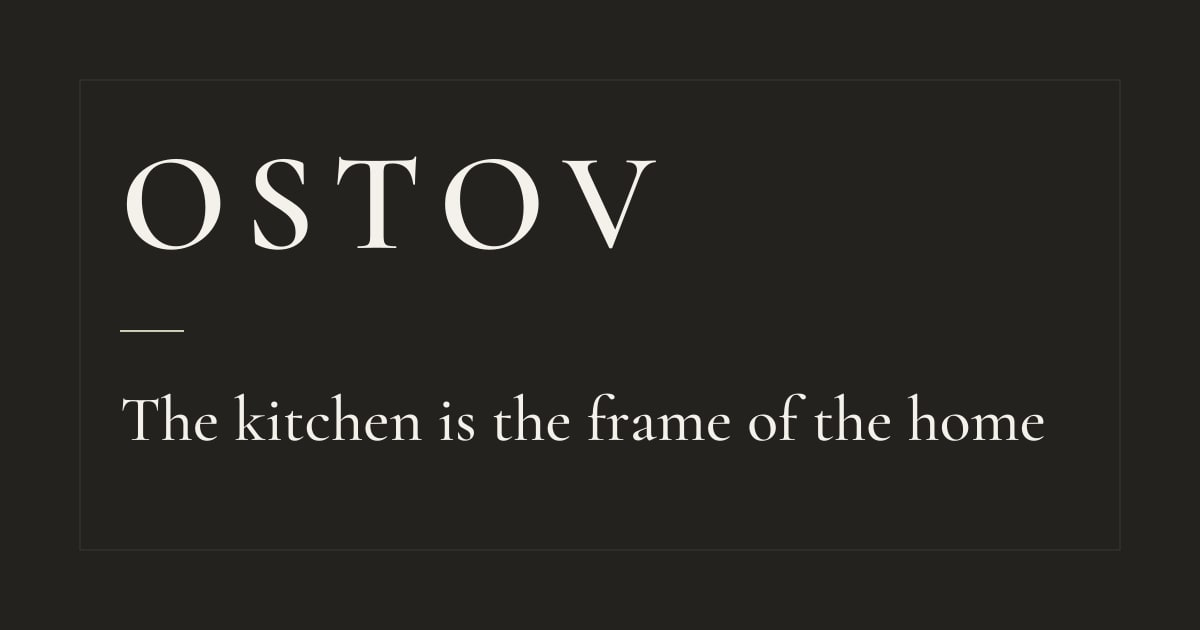
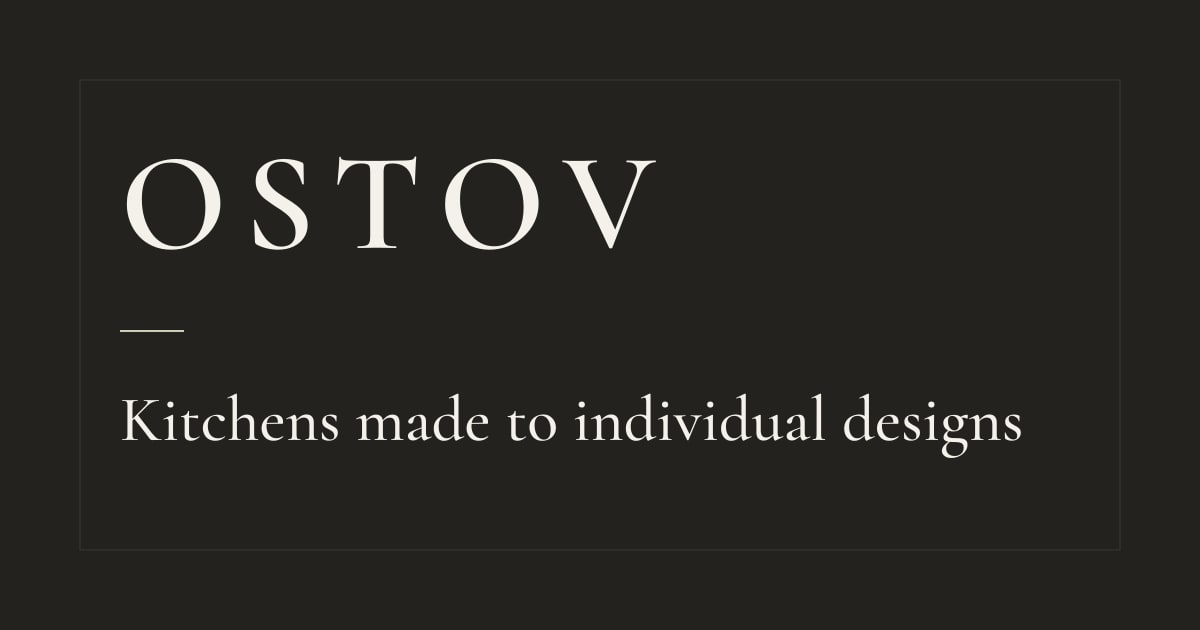
feat: new hero headline, larger H1

Changed region(s): [[0.0925, 0.6032, 0.8633, 0.7238]]

diff --git a/tests/unit/i18n.test.ts b/tests/unit/i18n.test.ts
@@ -5,8 +5,8 @@ const flat = (o: object, p = ''): Record<string,string> => Object.entries(o).red
 test('одинаковые ключи', () => expect(Object.keys(flat(en)).sort()).toEqual(Object.keys(flat(ru)).sort()));
 test('нет пустых строк', () => { for (const d of [ru, en]) for (const v of Object.values(flat(d))) expect(v.trim()).not.toBe(''); });
 test('ключевые строки', () => {
-  expect(ru.hero.title).toBe('Кухня — это каркас дома');
-  expect(en.hero.title).toBe('The kitchen is the frame of the home');
+  expect(ru.hero.title).toBe('Кухни по индивидуальным проектам');
+  expect(en.hero.title).toBe('Kitchens made to individual designs');
   expect(ru.footer.rights).toBe('© 2026 ООО «Остов». Все права защищены.');
   expect(en.footer.rights).toBe('© 2026 Ostov LLC. All rights reserved.');
 });

diff --git a/src/styles/tokens.css b/src/styles/tokens.css
@@ -24,7 +24,7 @@
   /* Typography */
   --font-serif: 'Cormorant Garamond', 'Times New Roman', Georgia, serif;
   --font-sans: 'Manrope', system-ui, -apple-system, 'Segoe UI', Roboto, Arial, sans-serif;
-  --fs-h1: clamp(3.5rem, 2.6rem + 3.6vw, 5.5rem); /* 56–88 px */
+  --fs-h1: clamp(2.5rem, min(2.99rem + 4.14vw, 12.8vw - 0.2rem), 6.325rem); /* +15% от прежних 56–88 px; на телефоне ограничен шириной слова «индивидуальным»: 43 px (360), 47 px (390), 80 px (768), 101 px (от ~1390) */
   --fs-h2: clamp(2.25rem, 1.4rem + 3.45vw, 4.5rem); /* 36 px до 390, 49 на 768, 66 на 1280, 72 от 1440 */
   --fs-h3: clamp(1.375rem, 1.2rem + 0.6vw, 1.75rem); /* 22–28 px */
   --fs-body: clamp(1rem, 0.94rem + 0.25vw, 1.125rem); /* 16–18 px */

diff --git a/src/i18n/ru.ts b/src/i18n/ru.ts
@@ -26,7 +26,7 @@ export const ru: Dict = {
     langEn: 'EN',
   },
   hero: {
-    title: 'Кухня — это каркас дома',
+    title: 'Кухни по индивидуальным проектам',
     subtitle: 'Собственная мастерская под Калугой. Массив, камень, металл. 12 лет, 240 проектов.',
     cta: 'Обсудить проект',
     secondary: 'Смотреть проекты',

diff --git a/src/i18n/en.ts b/src/i18n/en.ts
@@ -26,7 +26,7 @@ export const en: Dict = {
     langEn: 'EN',
   },
   hero: {
-    title: 'The kitchen is the frame of the home',
+    title: 'Kitchens made to individual designs',
     subtitle: 'Our own workshop near Kaluga. Solid wood, stone, metal. 12 years, 240 projects.',
     cta: 'Discuss your project',
     secondary: 'See projects',
